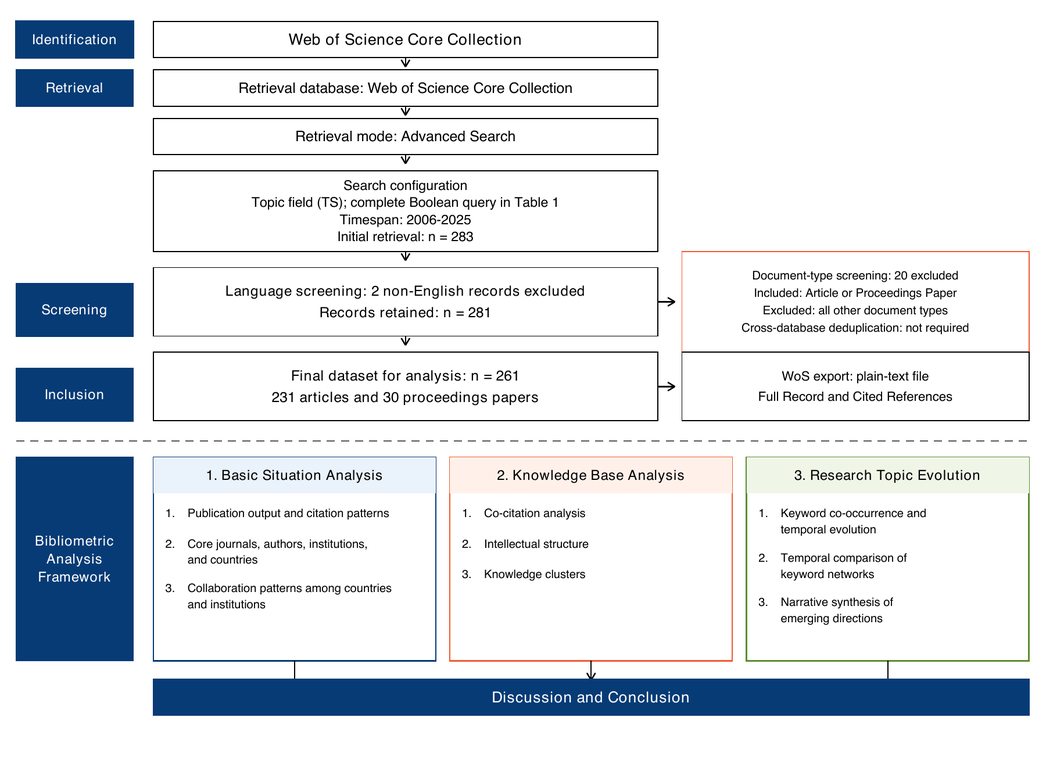
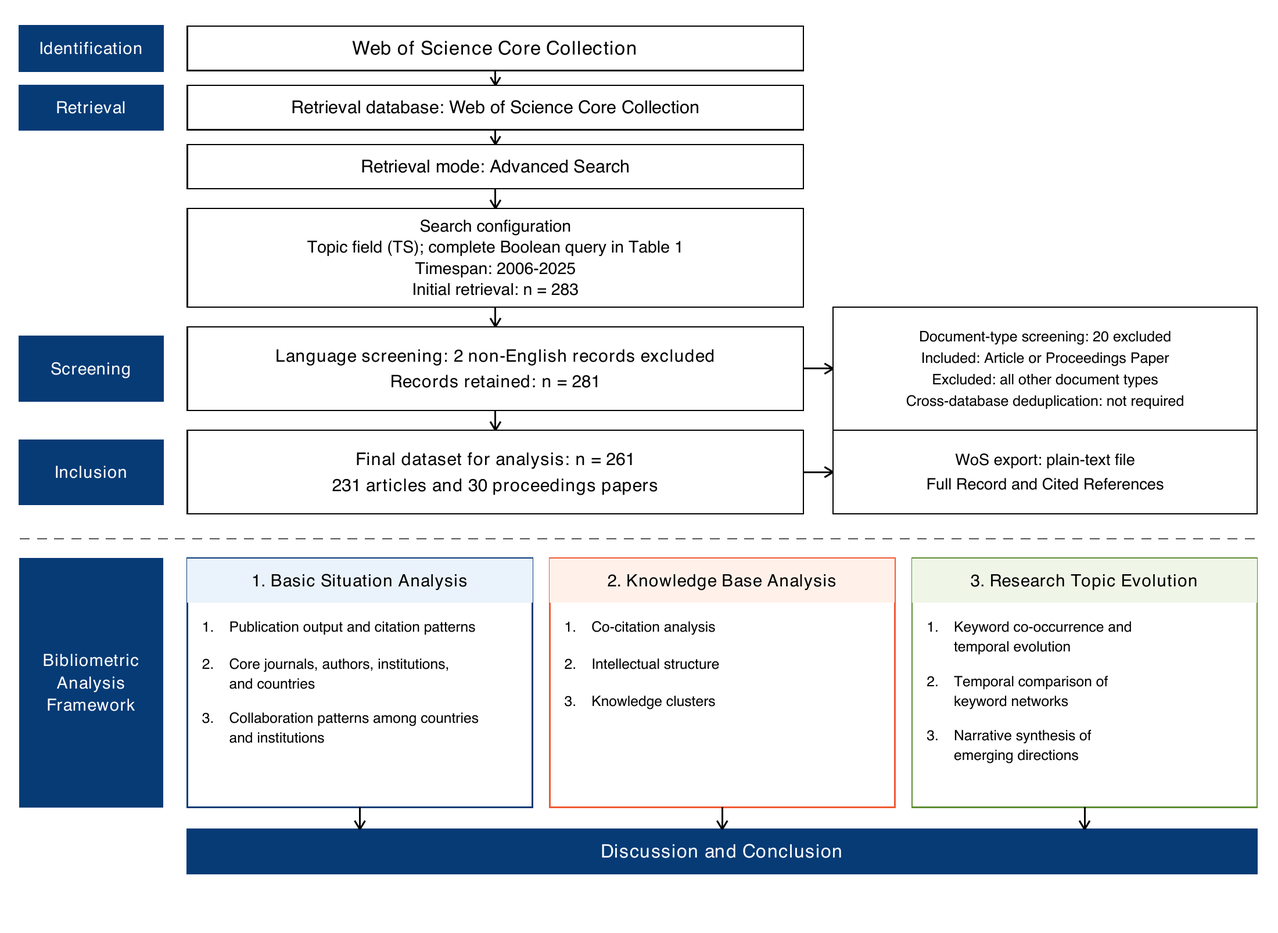
Synchronise supervisor revisions and confirmed workflow updates

diff --git a/manuscript/main.tex b/manuscript/main.tex
@@ -50,7 +50,7 @@
 \maketitle
 
 \begin{abstract}
-Land Use/Land Cover (LULC) classification is essential to understand human-environment interactions, ecological impacts, and sustainable land management. Given the growing complexity and scale of Earth observation data, accurately classifying LULC remains a significant challenge. With the development of Earth observation technology and artificial intelligence, deep learning combined with multi-source data fusion has received increasing attention for LULC classification. To clarify the trajectory of technological evolution and future trends in this field, this study conducts an in-depth analysis of 261 publications published from 2006 to 2025 based on the Web of Science Core Collection, integrating technical and bibliometric review methods. The search required both deep learning and fusion terms; it does not represent the entire LULC literature. Our results show that: (1) The number of published papers in this corpus has increased substantially since 2016; (2) Research attention within the corpus centres on multi-source heterogeneous data fusion and deep learning; (3) The suitability of data-level, feature-level, and decision-level fusion depends on data alignment, training resources, and application requirements; (4) Future research should focus on the development of explainable artificial intelligence, remote sensing foundation models, uncertainty-aware learning, and multimodal data governance technologies.
+Land Use/Land Cover (LULC) classification is essential to understand human-environment interactions, ecological impacts, and sustainable land management. Given the growing complexity and scale of Earth observation data, accurately classifying LULC remains a significant challenge. With the development of Earth observation technology and artificial intelligence, deep learning combined with multi-source data fusion has received increasing attention for LULC classification. To clarify the trajectory of technological evolution and future trends in this field, this study conducts an in-depth analysis of 261 publications from 2006 to 2025 based on the Web of Science Core Collection, integrating technical and bibliometric review methods. The results show that: (1) The number of published papers increased substantially from 2016 to 2025; (2) Research attention centres on multi-source heterogeneous data fusion and deep learning; (3) The suitability of data-level, feature-level, and decision-level fusion depends on data alignment, training resources, and application requirements; (4) Future research should focus on the development of explainable artificial intelligence, remote sensing foundation models, uncertainty-aware learning, and multimodal data governance technologies.
 \end{abstract}
 
 \begin{keywords}
@@ -60,31 +60,29 @@ Land Use/Land Cover classification; deep learning; multi-source data fusion; fea
 
 \section{Introduction}
 
-Land Use/Land Cover (LULC) information constitutes a fundamental baseline for understanding Earth system dynamics and is pivotal in urban planning, ecosystem assessment, disaster monitoring, and global climate change research \citep{1}. However, optical remote sensing alone is insufficient to capture the full complexity of land surface processes. Consequently, complementary modalities including light detection and ranging (LiDAR) and synthetic aperture radar (SAR) are increasingly used, as they provide structural and all-weather information. With the rapid advancement of Earth observation technologies that integrate these multi-source data, the field has entered the era of remote sensing big data, characterised by high spatial, temporal, and spectral resolutions. Nonetheless, accurate and automated classification of complex Earth surfaces remains a significant challenge in geographic information science.
+Land Use/Land Cover (LULC) information constitutes a fundamental baseline for understanding Earth system dynamics and is pivotal in urban planning, ecosystem assessment, disaster monitoring, and global climate change research \citep{1}. However, optical remote sensing alone is insufficient to capture the full complexity of land surface processes. Consequently, complementary modalities including light detection and ranging (LiDAR) and synthetic aperture radar (SAR) are increasingly used, as they provide structural and all-weather information, respectively \citep{6}. With the rapid advancement of Earth observation technologies that integrate these multi-source data, the field has entered the era of remote sensing big data, characterised by high spatial, temporal, and spectral resolutions. Nonetheless, accurate and automated classification of complex Earth surfaces remains a significant challenge in geographic information science \citep{56}.
 
 
-Historically, LULC classification initially relied on statistical methods such as Gaussian maximum likelihood classification and later shifted to traditional machine learning algorithms like support vector machine (SVM) and random forest (RF). While effective with suitable features and limited training samples, these shallow models may not capture high-level semantic features and depend substantially on manual feature engineering, which can limit their generalisation capabilities in complex heterogeneous scenes. Since 2015, the emergence of deep learning (DL) has substantially transformed the field \citep{2}. Algorithms including convolutional neural networks (CNNs) and the more recent Transformers can automatically learn hierarchical representations directly from raw data. Their performance relative to traditional methods depends on the dataset, training samples, sensor combination, and evaluation protocol.
+Historically, LULC classification initially relied on statistical methods such as Gaussian maximum likelihood classification and later shifted to traditional machine learning algorithms like support vector machine (SVM) and random forest (RF) \citep{belgiu2016random}. While effective with suitable features and limited training samples, these shallow models may not capture high-level semantic features and depend substantially on manual feature engineering, which can limit their generalisation capabilities in complex heterogeneous scenes \citep{56}. Since 2015, the emergence of deep learning (DL) has substantially transformed the field \citep{2}. Algorithms including convolutional neural networks (CNNs) and the more recent Transformers can automatically learn hierarchical representations directly from raw data. Their performance relative to traditional methods depends on the dataset, training samples, sensor combination, and evaluation protocol.
 
 
-Parallel to the evolution of algorithms, the limitations of single-source remote sensing data have become increasingly prominent. Optical imagery is susceptible to cloud cover and lighting conditions, SAR lacks rich spectral information, and LiDAR data are often constrained by acquisition costs. Consequently, multi-source data fusion that integrates the complementary strengths of optical imagery in terms of spectral content, SAR with respect to texture, structure, and dielectric properties, and LiDAR for elevation information has been investigated as a strategy to improve LULC classification. The intersection of deep learning and multi-source fusion has attracted increasing research attention. Despite the growth in publications, a comprehensive understanding of how these technologies have evolved over the past two decades remains relatively fragmented \citep{5}.
+Parallel to the evolution of algorithms, the limitations of single-source remote sensing data have become increasingly prominent. Optical imagery is susceptible to cloud cover and lighting conditions, SAR lacks rich spectral information, and LiDAR data are often constrained by acquisition costs \citep{6}. Consequently, multi-source data fusion that integrates the complementary strengths of optical imagery in terms of spectral content, SAR with respect to texture, structure, and dielectric properties, and LiDAR for elevation information has been investigated as a strategy to improve LULC classification \citep{hong2021benchmarks}. This intersection of deep learning and multi-source fusion has attracted increasing research attention. However, despite the growth in publications, a comprehensive understanding of how these technologies have evolved over the past two decades remains relatively fragmented \citep{5}.
 
 
-Sensor observations are not the only relevant information source. Crowdsourced geographic information can provide labels, semantic context, and rapid updates for LULC mapping, but its spatial coverage, positional accuracy, contributor bias, class consistency, and licensing conditions require explicit quality control \citep{wu2024crowdsourced}. In this review, \emph{multi-source fusion} denotes the integration of observations or derived products from multiple sources, whereas \emph{multimodal learning} denotes models that learn from data with different measurement or representational characteristics. These terms are therefore related but not interchangeable.
+In addition to sensor observations, crowdsourced geographic information can provide labels, semantic context, and rapid updates for LULC mapping, but its spatial coverage, positional accuracy, contributor bias, class consistency, and licensing conditions require explicit quality control \citep{wu2024crowdsourced}. In this review, \emph{multi-source fusion} denotes the integration of observations or derived products from multiple sources, whereas \emph{multimodal learning} denotes models that learn from data with different measurement or representational characteristics. These terms are therefore related but not interchangeable.
 
-Although numerous review articles on LULC classification or remote sensing data fusion have been published, existing studies face several limitations in meeting the demand for a macro-scale understanding of the field's evolution. First, existing reviews often focus on a single technical lineage and suffer from a time lag. For instance, Ma et al. systematically summarised the early applications of deep learning in remote sensing, but their focus was primarily on CNN architectures \citep{56}. Since their work predates the emergence of Vision Transformers and state-space models like Mamba, it fails to cover these subsequent developments. While recent scholars including Aleissaee et al. have provided specialised reviews on Transformers, they concentrate on emerging technologies with limited discussion of previous traditional algorithms \citep{7}. Second, there is a lack of quantitative scientometric support. Although Ghamisi et al. provided a detailed technical categorisation of multi-source data fusion strategies including data-level, feature-level, and decision-level fusion, their work remains a qualitative technical review \citep{6}. Bibliometric analysis can complement these technical reviews by describing the geographical distribution of publications, collaboration networks, and research hotspots within a defined corpus.
+Although numerous review articles on LULC classification or remote sensing data fusion have been published, existing studies face several limitations in meeting the demand for a macro-scale understanding of its evolution. First, existing reviews often focus on a single technical lineage and suffer from a time lag. For instance, Ma et al. systematically summarised the early applications of deep learning in remote sensing, but their focus was primarily on CNN architectures \citep{56}. Since their work predates the emergence of Vision Transformers and state-space models like Mamba, it fails to cover these subsequent developments. While recent scholars including Aleissaee et al. have provided specialised reviews on Transformers, they concentrate on emerging technologies with limited discussion of previous traditional algorithms \citep{7}. Second, there is a lack of quantitative scientometric support. Although Ghamisi et al. provided a detailed technical categorisation of multi-source data fusion strategies including data-level, feature-level, and decision-level fusion, their work remains a qualitative technical review \citep{6}. Bibliometric analysis can complement these technical reviews by describing the geographical distribution of publications, collaboration networks, and research hotspots within a defined corpus.
 
 
-This study conducts a bibliometric analysis and technical review based on the Web of Science Core Collection for the period 2006--2025. This paper combines quantitative bibliometric indicators (utilising tools such as VOSviewer and HistCite \citep{9,10}) with qualitative technical discussions. This research aims to: (1) map publication and citation patterns across countries, institutions, and authors in the retrieved corpus; (2) track the evolution of research hotspots, including CNN-based feature extraction and emerging trends such as Transformer and attention mechanisms; (3) compare the requirements, limitations, and suitable applications of different fusion strategies; and (4) critically analyse current challenges (e.g., data heterogeneity and model interpretability) to explore potential future research trajectories.
-
-Publications from 2026 are included only as narrative updates and do not enter the 2006--2025 bibliometric counts.
+This study conducts a bibliometric analysis and technical review based on the Web of Science Core Collection for the period 2006--2025. This paper combines quantitative bibliometric indicators (utilising tools such as VOSviewer and HistCite \citep{9,10}) with qualitative technical discussions. This research aims to: (1) map publication and citation patterns across countries, institutions, and authors in the retrieved corpus; (2) track the evolution of research hotspots, including CNN-based feature extraction and emerging trends such as Transformer and attention mechanisms; (3) compare the requirements, limitations, and suitable applications of different fusion strategies; and (4) critically analyse current challenges (e.g., data heterogeneity and model interpretability) to explore potential future research trajectories. The technical discussion is supplemented with publications from 2026 as narrative updates; these are excluded from the 2006--2025 bibliometric counts.
 
 \section{Data and Methods}
 
 \subsection{Data Collection}
 \label{sec:data_collection} 
-In the contemporary era, scientific literature datasets have become increasingly accessible to researchers. The data utilised for this review were retrieved from the Web of Science Core Collection (WoSCC) \citep{11}. The search used Advanced Search with the Topic field (\texttt{TS}), which covers titles, abstracts, author keywords, and Keywords Plus, under the default Core Collection index coverage available through the authors' institutional subscription. To define the intersection of deep learning, fusion, and LULC classification, the search query was constructed and is summarised in Table~\ref{tab:search_strategy}.
+Scientific literature datasets have become increasingly accessible to researchers. The data utilised for this review were retrieved from the Web of Science Core Collection (WoSCC) \citep{11}. The search used Advanced Search with the Topic field (\texttt{TS}), which covers titles, abstracts, author keywords, and Keywords Plus, under the default Core Collection index coverage available through the authors' institutional subscription. To define the intersection of deep learning, fusion, and LULC classification, the search query was constructed and is summarised in Table~\ref{tab:search_strategy}.
 
-Considering that deep learning has emerged as a relatively recent research hotspot, the time span was set from 2006 to 2025 to capture pivotal progress in LULC classification. The final retrieval, completed in January 2026, yielded a total of 261 relevant publications after the screening described below. Records were exported as a plain-text file with ``Full Record and Cited References''. The search settings are summarised in Table~\ref{tab:search_strategy}.
+Since deep learning has emerged as a relatively recent research hotspot, the time span was set from 2006 to 2025 to capture pivotal progress in LULC classification. The final retrieval, completed in January 2026, yielded a total of 261 relevant publications after the screening shown in Fig.~\ref{fig:flowchart} and described below. Records were exported as a plain-text file with ``Full Record and Cited References'', and the search settings are summarised in Table~\ref{tab:search_strategy}.
 
 
 \begin{table}[htb!]
@@ -123,9 +121,9 @@ Considering that deep learning has emerged as a relatively recent research hotsp
 \label{sec:fusion_coding}
 \label{sec:methodology}
 
-The research framework of this study is structured into three distinct phases: data collection, bibliometric analysis, and discussion/synthesis, as illustrated in Fig.~\ref{fig:flowchart}. 
+The research framework of this study is structured into three distinct phases: data collection, bibliometric analysis (publication and citation statistics, co-word analysis, co-author analysis, and co-citation analysis), and discussion/synthesis, as illustrated in Fig.~\ref{fig:flowchart}.
 
-During the data collection phase, literature retrieval was conducted using the Advanced Search interface within the Web of Science Core Collection. The query was applied to the Topic field (\texttt{TS}) under the default index coverage available through the authors' institutional subscription, as detailed in Section~\ref{sec:data_collection}. The initial search returned 283 records. Application of the language criterion excluded two non-English records, leaving 281 records. The document-type filter subsequently excluded 20 records that were neither articles nor proceedings papers. Because all records originated from a single WoSCC retrieval, no cross-database merging was performed and no records were removed as duplicates; the reduction from 283 to 261 resulted solely from the stated language and document-type criteria. The final corpus therefore comprised 261 publications, including 231 articles and 30 proceedings papers. No records were retrieved for 2006--2014, and only one record was retrieved for 2015. These criteria define the analysed corpus but do not remove database-coverage or topic-screening bias.
+During the data collection phase, literature retrieval was conducted using the Advanced Search interface within WoSCC. The query was applied to the Topic field (\texttt{TS}) under the default index coverage available through the authors' institutional subscription, as detailed in Section~\ref{sec:data_collection}. The initial search returned 283 records. Application of the language criterion excluded two non-English records, leaving 281 records. The document-type filter subsequently excluded 20 records that were neither articles nor proceedings papers. Since all records originated from a single WoSCC retrieval, no cross-database merging was performed and no records were removed as duplicates; the reduction from 283 to 261 resulted solely from the stated language and document-type criteria. The final corpus comprised 261 publications, including 231 articles and 30 proceedings papers. No records were retrieved for 2006--2014, and only one record was retrieved for 2015. These criteria define the analysed corpus but do not remove database-coverage or topic-screening bias.
 
 This study combines fundamental bibliometric analysis \citep{14,16} with network analysis methods \citep{13} to reveal publication trends and identify research hotspots within the retrieved LULC classification corpus. For a better understanding of the subsequent analysis, the relevant numerical indicators are introduced first, followed by an elaboration on network-based analysis methods, including co-word analysis, co-author analysis, and co-citation analysis. 
 
@@ -240,7 +238,7 @@ Other countries exhibit distinct collaboration patterns: India and Germany also 
 	
 	\includegraphics[width=\linewidth]{Figures/newplot_original_pdf_fig8.pdf}
 	\vspace{-10pt}
-	\caption{Geographical distribution of international research collaborations.}
+	\caption{Geographical distribution of international research collaborations. Country shading indicates publication output within the retrieved corpus, with darker red indicating more publications. Blue lines represent international co-authorship links, with thicker lines indicating more co-authored publications between the connected countries.}
 	\label{fig:collab_map}
 \end{figure}
 
@@ -265,14 +263,14 @@ In this study, VOSviewer software was employed to conduct a keyword hotspot anal
 			trim=256 0 0 0,
 			clip
 		]{Figures/picture_8.pdf}}
-	\caption{Keyword co-occurrence networks for the retrieved LULC classification literature: (a) 2016--2020; (b) 2021--2025. For readability, labels are displayed only for the more prominent nodes selected by the visualisation software; all retained nodes contribute to network construction.}
+	\caption{Keyword co-occurrence networks for the retrieved LULC classification literature: (a) 2016--2020; (b) 2021--2025. Association-strength normalisation and the VOSviewer clustering algorithm were used, with a resolution parameter of 1.00 and a minimum cluster size of 1. Colours indicate average publication year. For readability, labels are displayed only for the more prominent nodes selected by the visualisation software; all retained nodes contribute to network construction.}
 	\label{fig:keyword_evolution}
 \end{figure}
 
 \begin{figure}[!htbp]
 	\centering
 	\includegraphics[width=0.98\linewidth]{Figures/new_all.pdf}
-	\caption{Keyword co-occurrence network for the retrieved LULC classification literature (2006--2025). For readability, labels are displayed only for the more prominent nodes selected by the visualisation software; all retained nodes contribute to network construction.}
+	\caption{Keyword co-occurrence network for the retrieved LULC classification literature (2006--2025). Each node represents a keyword, with larger nodes indicating higher occurrence frequencies. Links indicate keyword co-occurrence relationships, and colours indicate clusters. Association-strength normalisation and the VOSviewer clustering algorithm were used, with a resolution parameter of 1.00 and a minimum cluster size of 1. For readability, labels are displayed only for the more prominent nodes selected by the visualisation software; all retained nodes contribute to network construction.}
 	\label{fig:keyword_all}
 \end{figure}
 
@@ -295,7 +293,7 @@ The results reveal four distinct clusters, representing groups of references cit
 \begin{figure}[!htbp]
 	\centering
 	\includegraphics[width=0.98\linewidth]{Figures/picture_9.pdf}
-	\caption{Document co-citation network revealing the intellectual structure of the retrieved LULC classification literature. Node size indicates citation prominence within the analysed network, colours indicate clusters, and links indicate co-citation relations. For readability, labels are displayed only for the more prominent nodes; all retained nodes contribute to network construction.}
+	\caption{Document co-citation network revealing the intellectual structure of the retrieved LULC classification literature. Each node represents a cited reference, with larger nodes indicating higher citation counts within the retrieved corpus. Links indicate co-citation relationships, and colours indicate clusters. Association-strength normalisation and the VOSviewer clustering algorithm were used, with a resolution parameter of 1.00 and a minimum cluster size of 1. For readability, labels are displayed only for the more prominent nodes; all retained nodes contribute to network construction.}
 	\label{fig:intellectual_structure}
 \end{figure}
 
@@ -415,7 +413,7 @@ The entries in Table~\ref{tab:fusion_levels} are conditional design expectations
 \FloatBarrier
 
 \subsection{Data-Level Fusion}
-Data-level fusion, often referred to as pixel-level or raw-level fusion, involves the direct integration of co-registered multimodal data sources, such as optical imagery, LiDAR-derived products, and synthetic aperture radar (SAR) \citep{57}. Bibliometric trends from 2016 to 2025 indicate that while keywords such as ``LiDAR'' and ``remote sensing'' occur frequently in the retrieved corpus \citep{38, 39}, studies investigate the synergy of these sensors to address individual spectral or structural limitations. The prominent status of LiDAR is attributed to its capacity to provide high-precision 3D coordinates and vegetation structure information, which can complement optical imagery from sensors like Sentinel-2; cloud-penetrating observations are provided by SAR rather than LiDAR \citep{40}.
+Data-level fusion, often referred to as pixel-level or raw-level fusion, involves the direct integration of co-registered multimodal data sources, such as optical imagery, LiDAR-derived products, and SAR \citep{57}. Bibliometric trends from 2016 to 2025 indicate that while keywords such as ``LiDAR'' and ``remote sensing'' occur frequently in the retrieved corpus \citep{38, 39}, studies investigate the synergy of these sensors to address individual spectral or structural limitations. The prominent status of LiDAR is attributed to its capacity to provide high-precision 3D coordinates and vegetation structure information, which can complement optical imagery from sensors like Sentinel-2; cloud-penetrating observations are provided by SAR rather than LiDAR \citep{40}.
 
 Despite its foundational importance, data-level fusion faces persistent technical bottlenecks, particularly in multi-source spatial registration and heterogeneous noise suppression \citep{41}. Statistical models of heterogeneous SAR returns illustrate the need to account for sensor-specific noise \citep{58}. High-quality fused inputs can support subsequent feature extraction by CNNs, Transformers, and state-space models, but alignment alone does not ensure improved classification. Registration accuracy, source-specific noise, sensor complementarity, and training conditions must be considered when preparing ``model-ready'' multimodal inputs \citep{23,cao2020urban}.
 
@@ -453,10 +451,10 @@ Despite its foundational importance, data-level fusion faces persistent technica
 
 Feature-level fusion integrates abstract features at the intermediate layers of a model (such as feature maps extracted via a CNN or Transformer), with a balance between information preservation and computational efficiency that depends on the model and task. Within the retrieved corpus, bibliometric analysis reveals that ``CNN'', ``deep learning'', and ``feature extraction'' are among the highest-frequency keywords, alongside emerging terms such as ``Transformer'', ``attention mechanism'', ``representation learning'', and ``semantic segmentation''.
 
-Deep Learning (DL): DL provides an end-to-end framework for feature-level fusion, enabling the unified implementation of automated feature extraction and decision-making. In LULC research, DL models automatically mine multi-dimensional spectral, spatial, and textural features, reducing dependence on manual feature engineering. This supports the use of feature-level fusion in the reviewed studies \citep{42, 43}. Notably, the study ``Deep Learning Earth Observation Classification Using ImageNet Pretrained Networks'' \citep{28} had a TGCS of 492 at the time of data collection, reflecting the intense research focus on DL-driven methodologies.
+DL: DL provides an end-to-end framework for feature-level fusion, enabling the unified implementation of automated feature extraction and decision-making. In LULC research, DL models automatically mine multi-dimensional spectral, spatial, and textural features, reducing dependence on manual feature engineering. This supports the use of feature-level fusion in the reviewed studies \citep{42, 43}. Notably, the study ``Deep Learning Earth Observation Classification Using ImageNet Pretrained Networks'' \citep{28} had a TGCS of 492 at the time of data collection, reflecting the intense research focus on DL-driven methodologies.
 
 \medskip % 增加段落间距
-CNN (Convolutional Neural Network): CNNs served as the core tools for early feature-level fusion. They excel at capturing local spatial features, such as building textures and vegetation patch structures. By extracting and fusing local features from multi-source data (e.g., optical and SAR) through channel concatenation or weighted summation, CNNs can improve classification accuracy, depending on data alignment, training, and evaluation conditions \citep{41}.
+CNN: CNNs served as the core tools for early feature-level fusion. They excel at capturing local spatial features, such as building textures and vegetation patch structures. By extracting and fusing local features from multi-source data (e.g., optical and SAR) through channel concatenation or weighted summation, CNNs can improve classification accuracy, depending on data alignment, training, and evaluation conditions \citep{41}.
 
 \medskip
 Transformer: This architecture has seen a rapid surge in popularity in the retrieved literature. The 2023 study ``Extended Vision Transformer (ExViT) for Land Use and Land Cover Classification'' \citep{36} achieved a TGCS of 312 at the time of data collection. By utilising self-attention mechanisms, Transformers can capture long-range spatial dependencies beyond local convolutional receptive fields, although benefits depend on training data, tokenisation, spatial scale, and computational resources \citep{45}.

diff --git a/manuscript/README.md b/manuscript/README.md
@@ -1,6 +1,6 @@
-# 原稿底稿修订源包（说明更新于2026-09-18）
+# 原稿底稿修订源包（说明更新于2026-09-20）
 
-2026-09-18更新：`main.tex` 中关于未来比较研究和可复用综述材料的建议段落已移至仓库根目录的 [TODO.md](../TODO.md)。本次仅更新相关源码和待办说明；已有PDF、diff、回复信及ZIP未重新生成。
+2026-09-20更新：`main.tex` 与当前本地源码已同步，包含老师批注对应的文字修改、图8—11图注、移入 [TODO.md](../TODO.md) 的未来研究建议，以及表4中移至表下注释的Vaswani引用。`Figures/flowchart.pdf` 已包含箭头贴边、右上方黑色边框及Screening/Inclusion标签居中调整。流程图拆分并放入Discussion尚未实施。请从本目录的 `main.tex` 手动编译；已有PDF、diff、回复信及ZIP未重新生成。
 
 此前源包对应33页修改版PDF、39页diff和14页回复信。该次修订内容、参考来源和文件对应记录见 `submission_audit_zh.md`。
 

diff --git a/README.md b/README.md
@@ -33,10 +33,13 @@ open the original PDF.*
 
 ## Current status
 
-Future reproducibility work is tracked in the [to-do list](TODO.md). The
-recommendations were moved from the LaTeX manuscript to this checklist on
-18 September 2026. This source edit does not regenerate the compiled PDFs,
-tracked comparison, reviewer response or source ZIP listed below.
+The [current LaTeX source](manuscript/main.tex) and workflow figure were
+synchronised with the supervisor-comment revisions and subsequent confirmed edits
+on 20 September 2026. Future reproducibility recommendations are tracked in the
+[to-do list](TODO.md). The proposed workflow split for the Discussion section has
+not yet been incorporated. The compiled PDFs, tracked comparison, reviewer response
+and source ZIP below retain their earlier versions; compile the current source
+from the `manuscript/` folder to include the latest edits.
 
 ### Revision materials
 
